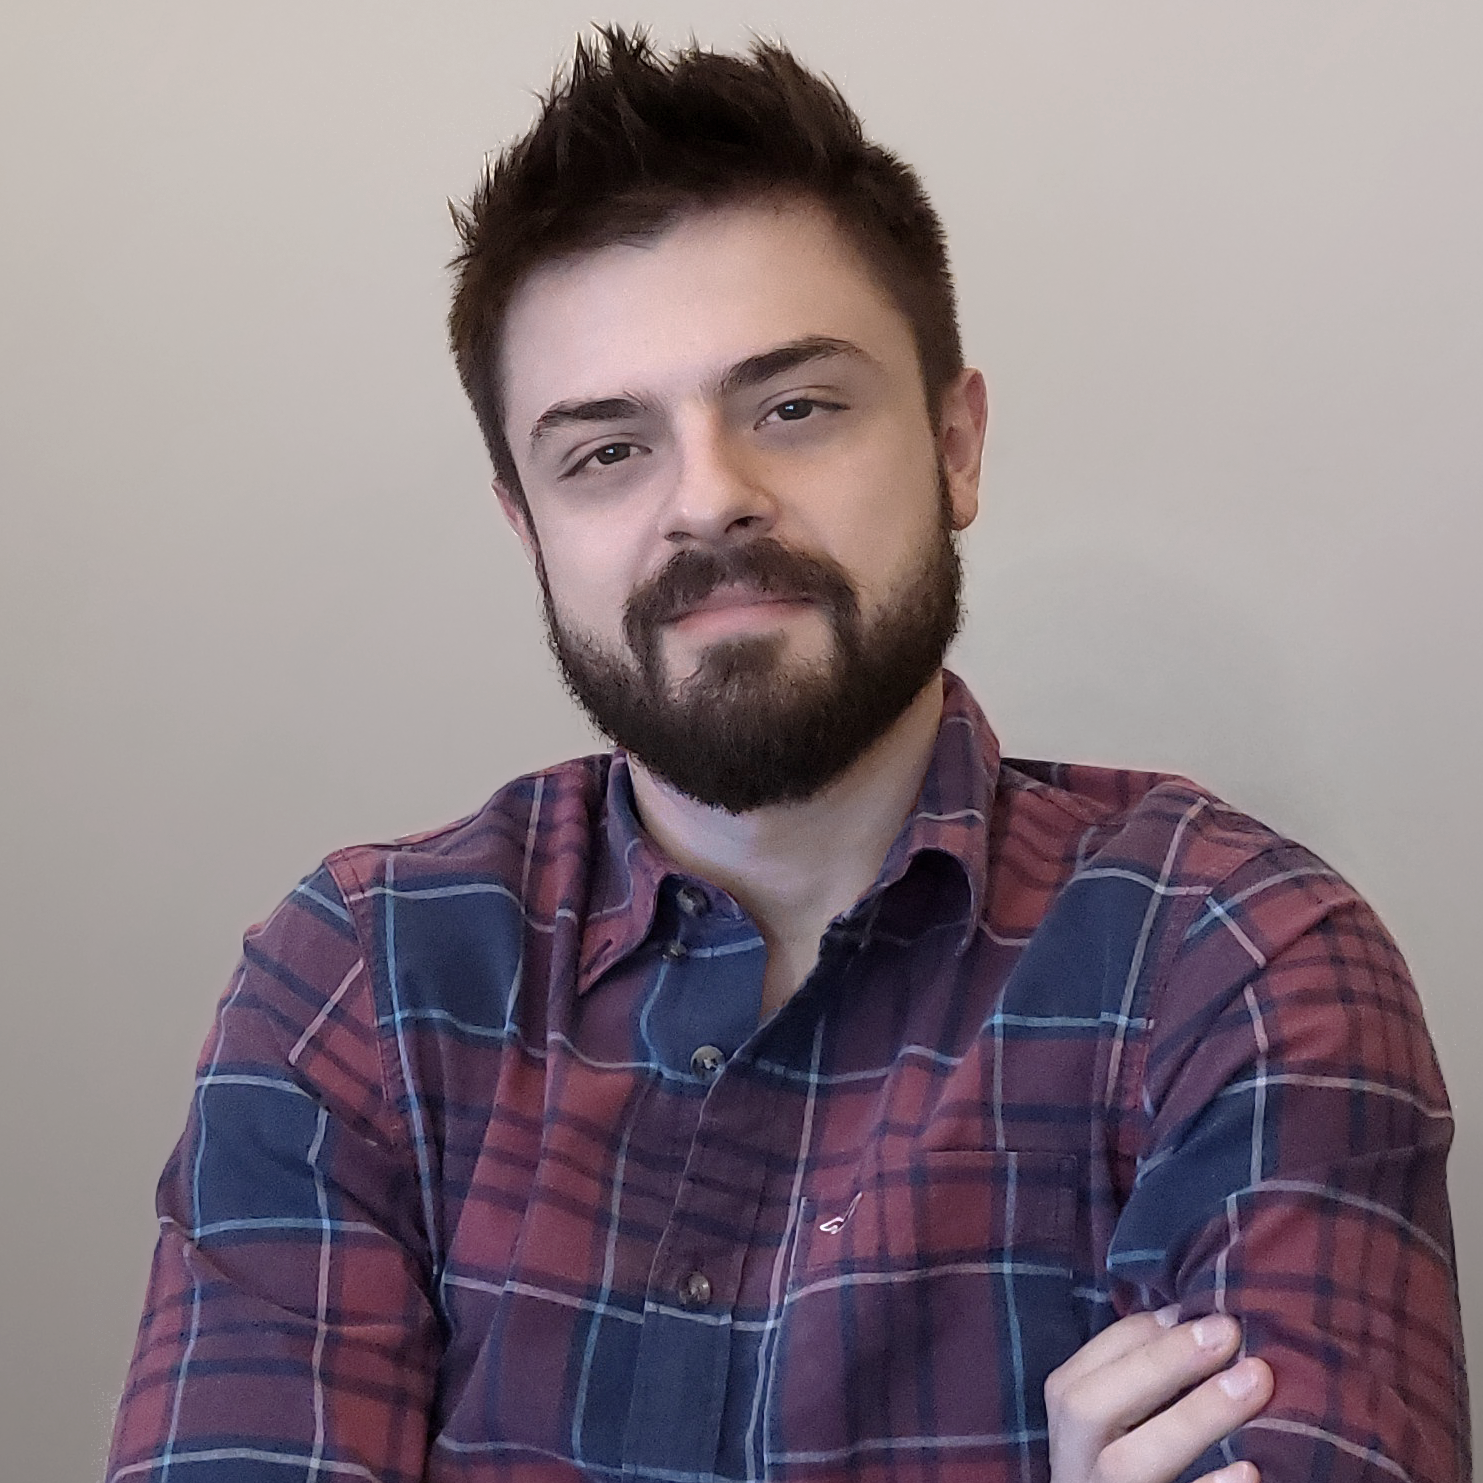
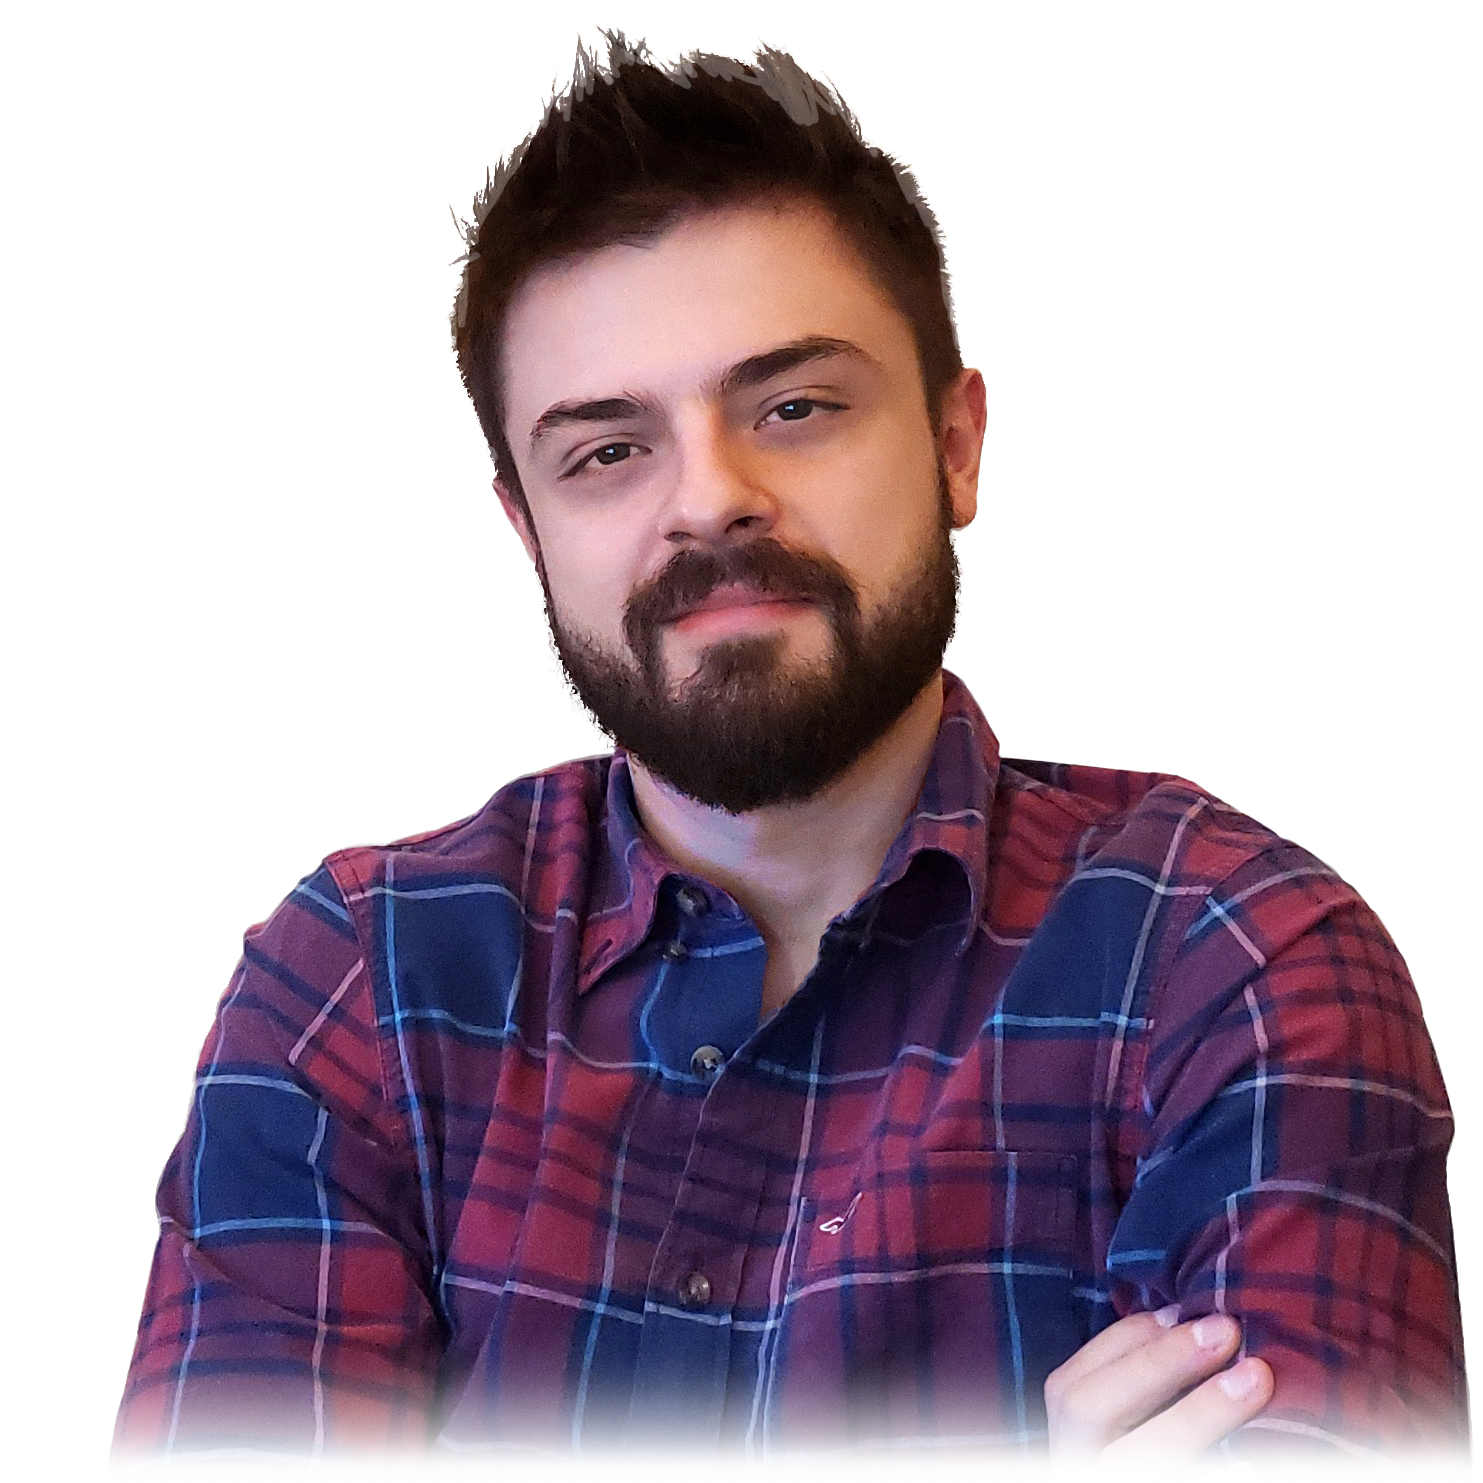
Version 1.3.6: Made responsive nav menu (header), video player now more wide, profile-pic changed, about text corrected

diff --git a/src/components/Header/index.module.css b/src/components/Header/index.module.css
@@ -1,50 +1,81 @@
 .header__container {
   width: 100%;
   position: fixed;
-  text-align: center;
   z-index: 1;
   margin-bottom: 500px;
   transition: background-color 1s;
 }
 
 .header {
+  /* display: flex;
+  justify-content: space-between;
+  align-items: center; */
   position: relative;
-  opacity: 0.8;
+  min-height: 60px;
 }
 
 .header__logo {
   position: absolute;
-  top: 0;
-  left: 0;
+  top: 10px;
+  left: 20px;
+}
+
+.header__logo > img {
+  height: 40px;
+}
+
+.header__bars {
+  display: none;
+  position: absolute;
+  top: 20px;
+  right: 20px;
+  font-size: 1.4rem;
   height: 100%;
-  padding: 1%;
 }
 
-.header__link {
-  color: white;
+.header__button {
   display: inline-block;
-  padding: 1.5%;
-  cursor: pointer;
+  width: 100px;
+  padding: 20px 0;
+  margin: 0;
+  text-align: center;
+  text-decoration: none;
+  font-size: 1rem;
+  transition: background-color 0.5s;
 }
 
-.header__link a {
-  color: white;
-  text-decoration: none;
+.header__button:hover {
+  background-color: var(--primaryColor);
 }
 
 .header__name {
   position: absolute;
-  top: 0;
-  right: 0;
-  height: 100%;
-  padding: 1.5%;
+  top: 20px;
+  right: 20px;
 }
 
-@media only screen and (max-width: 700px) {
-  .header__name {
+@media only screen and (max-width: 900px) {
+  .header__name > h4 {
     display: none;
   }
-  .header__link {
-    padding: 12px 1.5%;
+}
+
+@media only screen and (max-width: 600px) {
+  .header__menu {
+    display: none;
+  }
+  .header__menuWrapper:hover .header__menu {
+    display: flex;
+    flex-direction: column;
+    position: absolute;
+    top: 50px;
+    right: 0;
+    background: var(--primaryColor);
+  }
+  .header__button:hover {
+    background-color: var(--darkGrey);
+  }
+  .header__bars {
+    display: inherit;
   }
 }

diff --git a/src/components/Header/index.js b/src/components/Header/index.js
@@ -1,7 +1,9 @@
 import React from 'react';
-import { Link } from "gatsby";
+// import { Link } from "gatsby";
+import scrollTo from 'gatsby-plugin-smoothscroll';
 import styles from './index.module.css';
 
+import Icon from 'components/Icon/index';
 import logoHeader from 'images/home/logo-header.png';
 import { sectionsList } from 'startup/sections-list/index';
 
@@ -29,9 +31,9 @@ export default class Header extends React.Component {
   renderMenu = () => {
     return sectionsList.map((section, i) => {
       return (
-        <div key={i} className={styles.header__link}>
-          <Link to={"/#"+section.value}>{section.title}</Link>
-        </div>
+        <button className={styles.header__button} onClick={() => scrollTo("#"+section.value)}>
+          {section.title}
+        </button>
       )
     })
   }
@@ -52,8 +54,17 @@ export default class Header extends React.Component {
       <>
         <div className={styles.header__container} style={this.style()}>
           <div className={styles.header}>
-            <img className={styles.header__logo} src={logoHeader}/>
-            {this.renderMenu()}
+            <div className={styles.header__logo}>
+              <img src={logoHeader}/>
+            </div>
+            <div className={styles.header__menuWrapper}>
+              <div className={styles.header__bars}>
+                <Icon icon="bars"/>
+              </div>
+              <nav className={styles.header__menu}>
+                {this.renderMenu()}
+              </nav>
+            </div>
             <div className={styles.header__name}>
               <h4>Thiago Nemecek</h4>
             </div>

diff --git a/src/sections/AboutSection/index.js b/src/sections/AboutSection/index.js
@@ -12,7 +12,7 @@ export default class AboutSection extends React.Component {
           <div>
             <div className={styles.about__icon}>,,</div>
             <p>
-              Thiago (James) Nemecek is a film and game composer, sound designer and audio programmer based on Toronto, Canada, who has worked in the top-grossing brazilian films for consecutive years since 2016. Thiago has also worked as sound designer for video games, VR experiences and other media, including the 2016 Official League of Legends Brazilian Finals Opening Ceremony, acompanying a holographic projection on stage for thousands of spectators. When needed, Thiago works also as a programmer and uses this knowledge to implement audio in video games.
+              Thiago (James) Nemecek is a film and game composer, sound designer and audio programmer based in Toronto, Canada, who has worked in the top-grossing brazilian films for consecutive years since 2016. Thiago has also worked as sound designer for video games, VR experiences and other media, including the 2016 Official League of Legends Brazilian Finals Opening Ceremony, acompanying a holographic projection on stage for thousands of spectators. When needed, Thiago works also as a programmer and uses this knowledge to implement audio in video games.
             </p>
           </div>
           <Zoom>

diff --git a/src/sections/AboutSection/index.module.css b/src/sections/AboutSection/index.module.css
@@ -1,6 +1,6 @@
 .about {
   margin: auto;
-  background: black;
+  background: var(--backgroundColor);
 }
 
 .about__icon {
@@ -30,27 +30,33 @@
 }
 
 .about__picture > img {
-  width: 350px;
-  border: 5px solid gray;
+  width: 450px;
+  /* border: 5px solid gray; */
 }
 
-@media only screen and (max-width: 1000px) {
+@media only screen and (max-width: 1200px) {
   .about__icon {
     display: none;
   }
   .about__content p {
-    font-size: 1rem;
+    font-size: 1.2rem;
   }
   .about__picture > img {
-    width: 200px;
+    width: 300px;
   }
 }
-@media only screen and (max-width: 500px) {
+@media only screen and (max-width: 700px) {
   .about__content {
     flex-wrap: wrap;
   }
   .about__picture {
     width: 100%;
     text-align: center;
+    padding: 0;
+  }
+}
+@media only screen and (max-width: 400px) {
+  .about__picture > img {
+    width: 100%;
   }
 }

diff --git a/src/components/Icon/index.js b/src/components/Icon/index.js
@@ -1,6 +1,6 @@
 import React from 'react';
 import { FontAwesomeIcon } from '@fortawesome/react-fontawesome';
-import { faTimes, faPlay, faPause, faVolumeUp, faVolumeMute, faPlayCircle, faCompress } from '@fortawesome/free-solid-svg-icons';
+import { faTimes, faPlay, faPause, faVolumeUp, faVolumeMute, faPlayCircle, faCompress, faBars } from '@fortawesome/free-solid-svg-icons';
 import { faSoundcloud, faTwitter } from '@fortawesome/free-brands-svg-icons';
 
 import styles from './index.module.css';
@@ -14,7 +14,8 @@ const ICON_SET = {
   "volume": faVolumeUp,
   "mute": faVolumeMute,
   "playCircle": faPlayCircle,
-  "fullscreen": faCompress
+  "fullscreen": faCompress,
+  "bars": faBars
 }
 
 export default class Icon extends React.Component {

diff --git a/src/styles/global.css b/src/styles/global.css
@@ -17,7 +17,7 @@ body {
   font-family: var(--primaryFont);
   font-size: 1rem;
   font-weight: 300;
-  background-color: black;
+  background-color: var(--backgroundColor);
   color: var(--fontColor);
   text-align: center;
   text-transform: uppercase;

diff --git a/gatsby-config.js b/gatsby-config.js
@@ -4,6 +4,8 @@ module.exports = {
     description: `Audio Portfolio`,
   },
   plugins: [
+    `gatsby-plugin-postcss`,
+    'gatsby-plugin-smoothscroll',
     'gatsby-plugin-resolve-src',
     `gatsby-plugin-react-helmet`,
     {

diff --git a/src/styles/variables.css b/src/styles/variables.css
@@ -5,6 +5,9 @@
   --primaryColorValues: 31, 155, 166;
   --primaryColor: rgb(var(--primaryColorValues));
   --fontColor: white;
+  --backgroundColor: black;
+
+
   --lightGrey: #dbdbdb;
   --grey: #696969;
   --darkGrey: #424242;

diff --git a/src/sections/WorksSection/WorkBox/index.module.css b/src/sections/WorksSection/WorkBox/index.module.css
@@ -17,6 +17,12 @@
   text-align: justify;
 }
 
+@media only screen and (max-width: 400px) {
+  .workbox__content {
+    font-size: 0.8rem;
+  }
+}
+
 .workbox__main {
   display: grid;
   grid-template-columns: auto auto;

diff --git a/src/components/MediaPlayer/index.module.css b/src/components/MediaPlayer/index.module.css
@@ -1,7 +1,7 @@
 .mediaPlayer {
   position: relative;
   width: 100%;
-  max-width: 725px;
+  max-width: 825px;
   max-height: 550px;
   display: flex;
   overflow: hidden;

diff --git a/src/sections/WorksSection/index.module.css b/src/sections/WorksSection/index.module.css
@@ -1,7 +1,7 @@
 .works {
   padding: 5% 0 !important;
   text-align: center;
-  background: black;
+  background: var(--backgroundColor);
 }
 
 .works__grid {

diff --git a/postcss-.config.js b/postcss-.config.js
@@ -1,0 +1,5 @@
+module.exports = {
+  plugins: [
+    require('autoprefixer')({ browsers: [ 'last 2 versions' ] })
+  ]
+}
